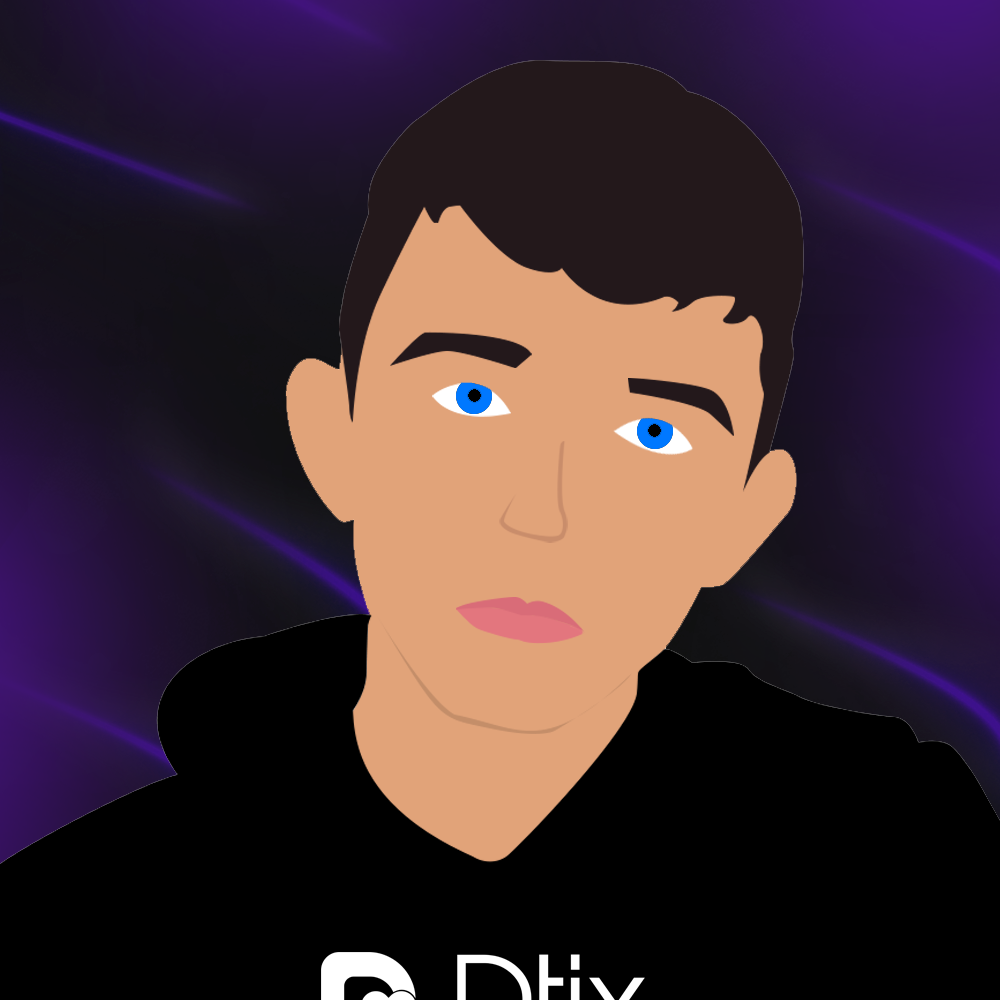
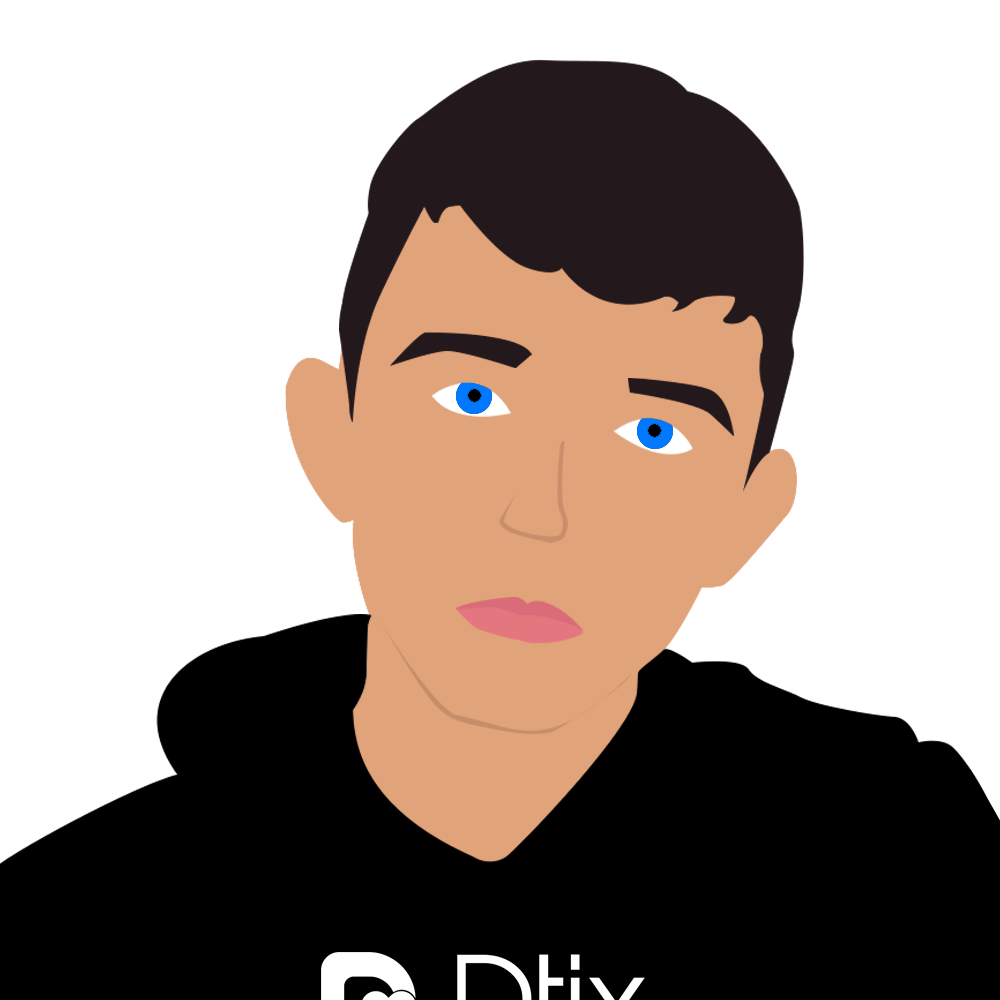
Fixes and stuff.

diff --git a/branding.html b/branding.html
@@ -68,7 +68,7 @@
 			<div class="banner animated fadeIn">
 				<h1 class="title is-1 has-text-centered has-text-white animated fadeIn">Branding</h1>
 				<p class="subtitle is-3 has-text-centered has-text-white" style="color: white">by <a href="https://ewanhaynes.com/">Ewan Haynes</a></p>
-				<p class="subtitle is-3 has-text-centered has-text-white" style="color: white">Cartoon Design + Background By <a href="https://camerondtix.com/">Cameron Clark</a>.</p>
+				<p class="subtitle is-3 has-text-centered has-text-white" style="color: white">Cartoon Design By <a href="https://camerondtix.com/">Cameron Clark</a>.</p>
 			</div>
 			<br>
 			<br>
@@ -89,7 +89,7 @@
 					<div class="column">
 						<img src="img/colour.png" alt="Avatar Colour" class="branding">
 				    </div class="column">
-				         <img src="img/profile framed.png" alt="Avatar Colour" class="branding">
+				         <img src="img/profile.png" alt="Avatar Colour" class="branding">
 				</div>
 				<br>
 				<br>

diff --git a/css/style.css b/css/style.css
@@ -69,8 +69,8 @@ a.navbar-item p {
 }
 
 .background-section {
-	padding: 35px 0;
-	background: #480d80;
+	padding: 45px 0;
+	background: #0055ff;
 	margin-top: 25px;
 }
 
@@ -139,15 +139,9 @@ a.navbar-item p {
 
 
 #banner {
-	padding: 250px 0;
-	background: linear-gradient(321deg, #000000, #480d80 40%);
-    background-size: 400% 400%;
-
-    -webkit-animation: fade 5s ease infinite;
-    -moz-animation: fade 5s ease infinite;
-    -o-animation: fade 5s ease infinite;
-    animation: fade 5s ease infinite;
-	animation-delay: 1s;}
+    padding: 300px 0;
+    background: url(../img/bg.png) center/cover;
+}
 
     @-webkit-keyframes fade {
         0%{background-position:0% 4%}
@@ -204,7 +198,7 @@ a.navbar-item p {
 	margin: 0 5px;
 }
 .main-section .socials a:hover .fab {
-	color: #6819cf;
+	color: #0055ff;
 }
 .main-section .socials a .fab {
 	color: #fff;

diff --git a/index.html b/index.html
@@ -75,8 +75,8 @@
 				</div>
 			</div>
 			<div class="white-section has-text-centered">
-				<img src="img/profile.png">
-				<h1 class="title is-2 has-text-centered has-text-black">Cameron Dtix ✦</h1>
+				<img src="img/colour.png">
+				<h1 class="title is-2 has-text-centered has-text-black">Cameron Dtix</h1>
 			    <h1 class="title is-3 has-text-centered has-text-black">About Me</h1>
 				<p>
 					Alright I don't want to set this as anything cringy or disturbing in the slightest.
